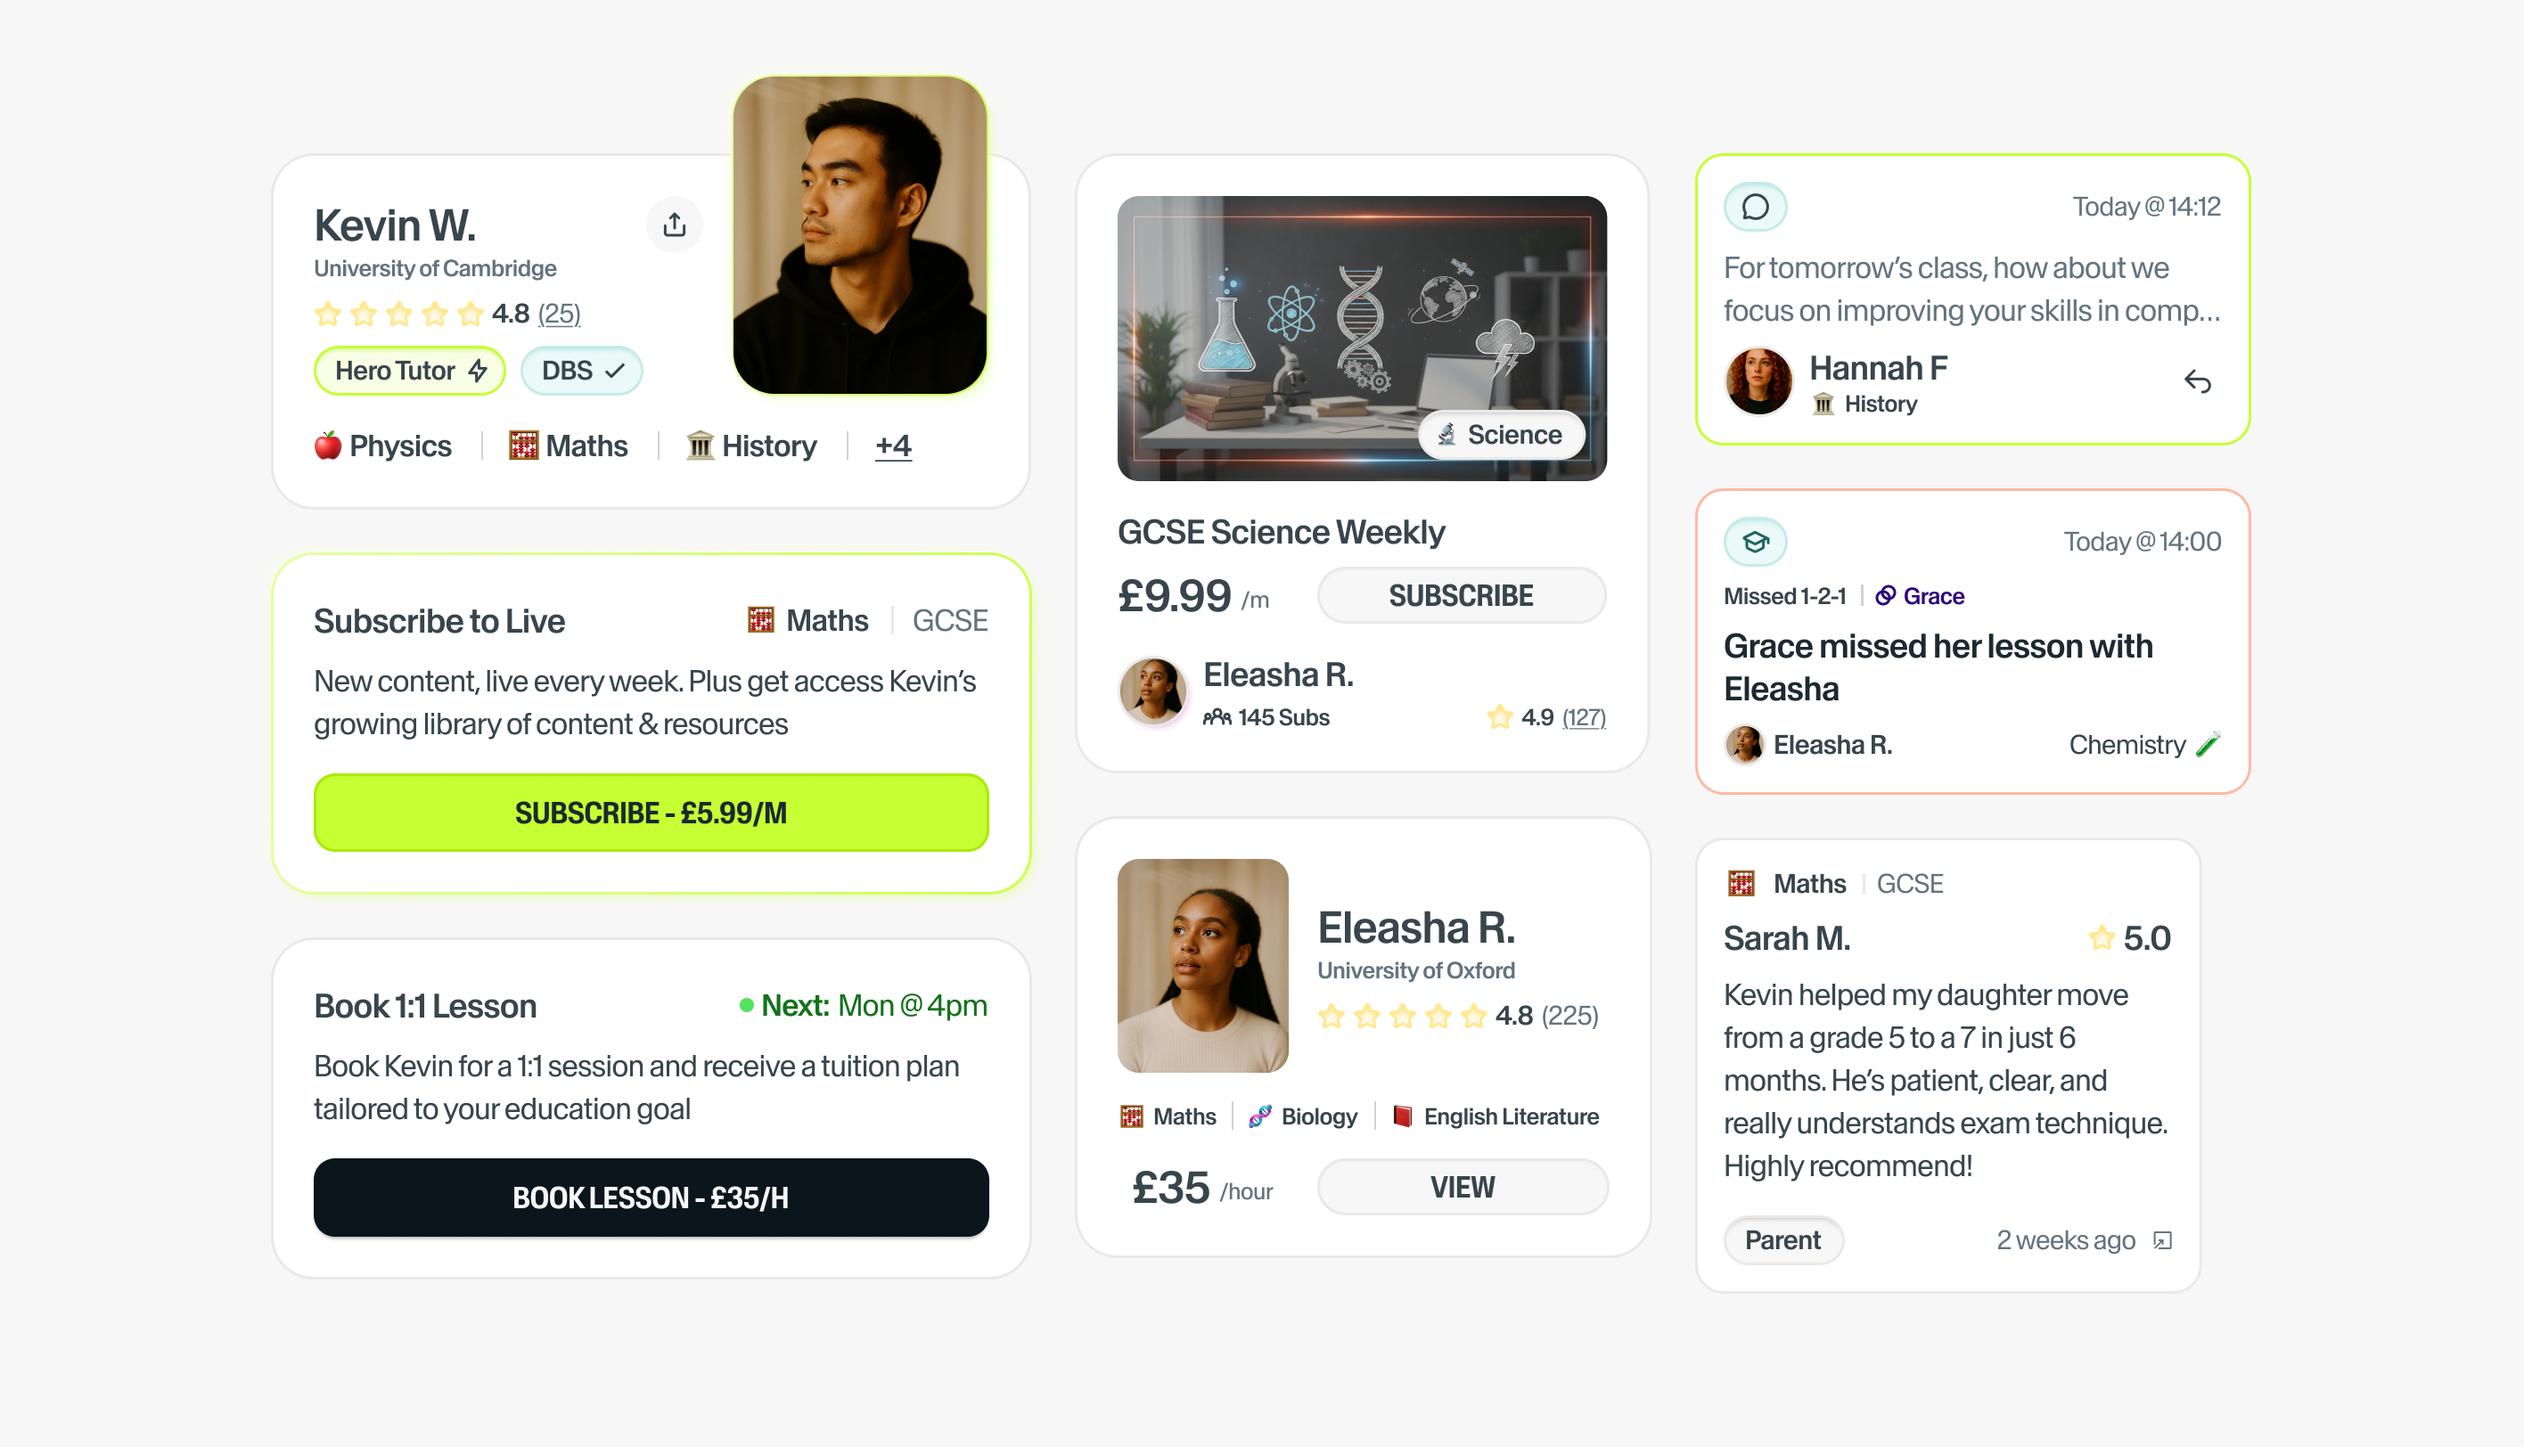
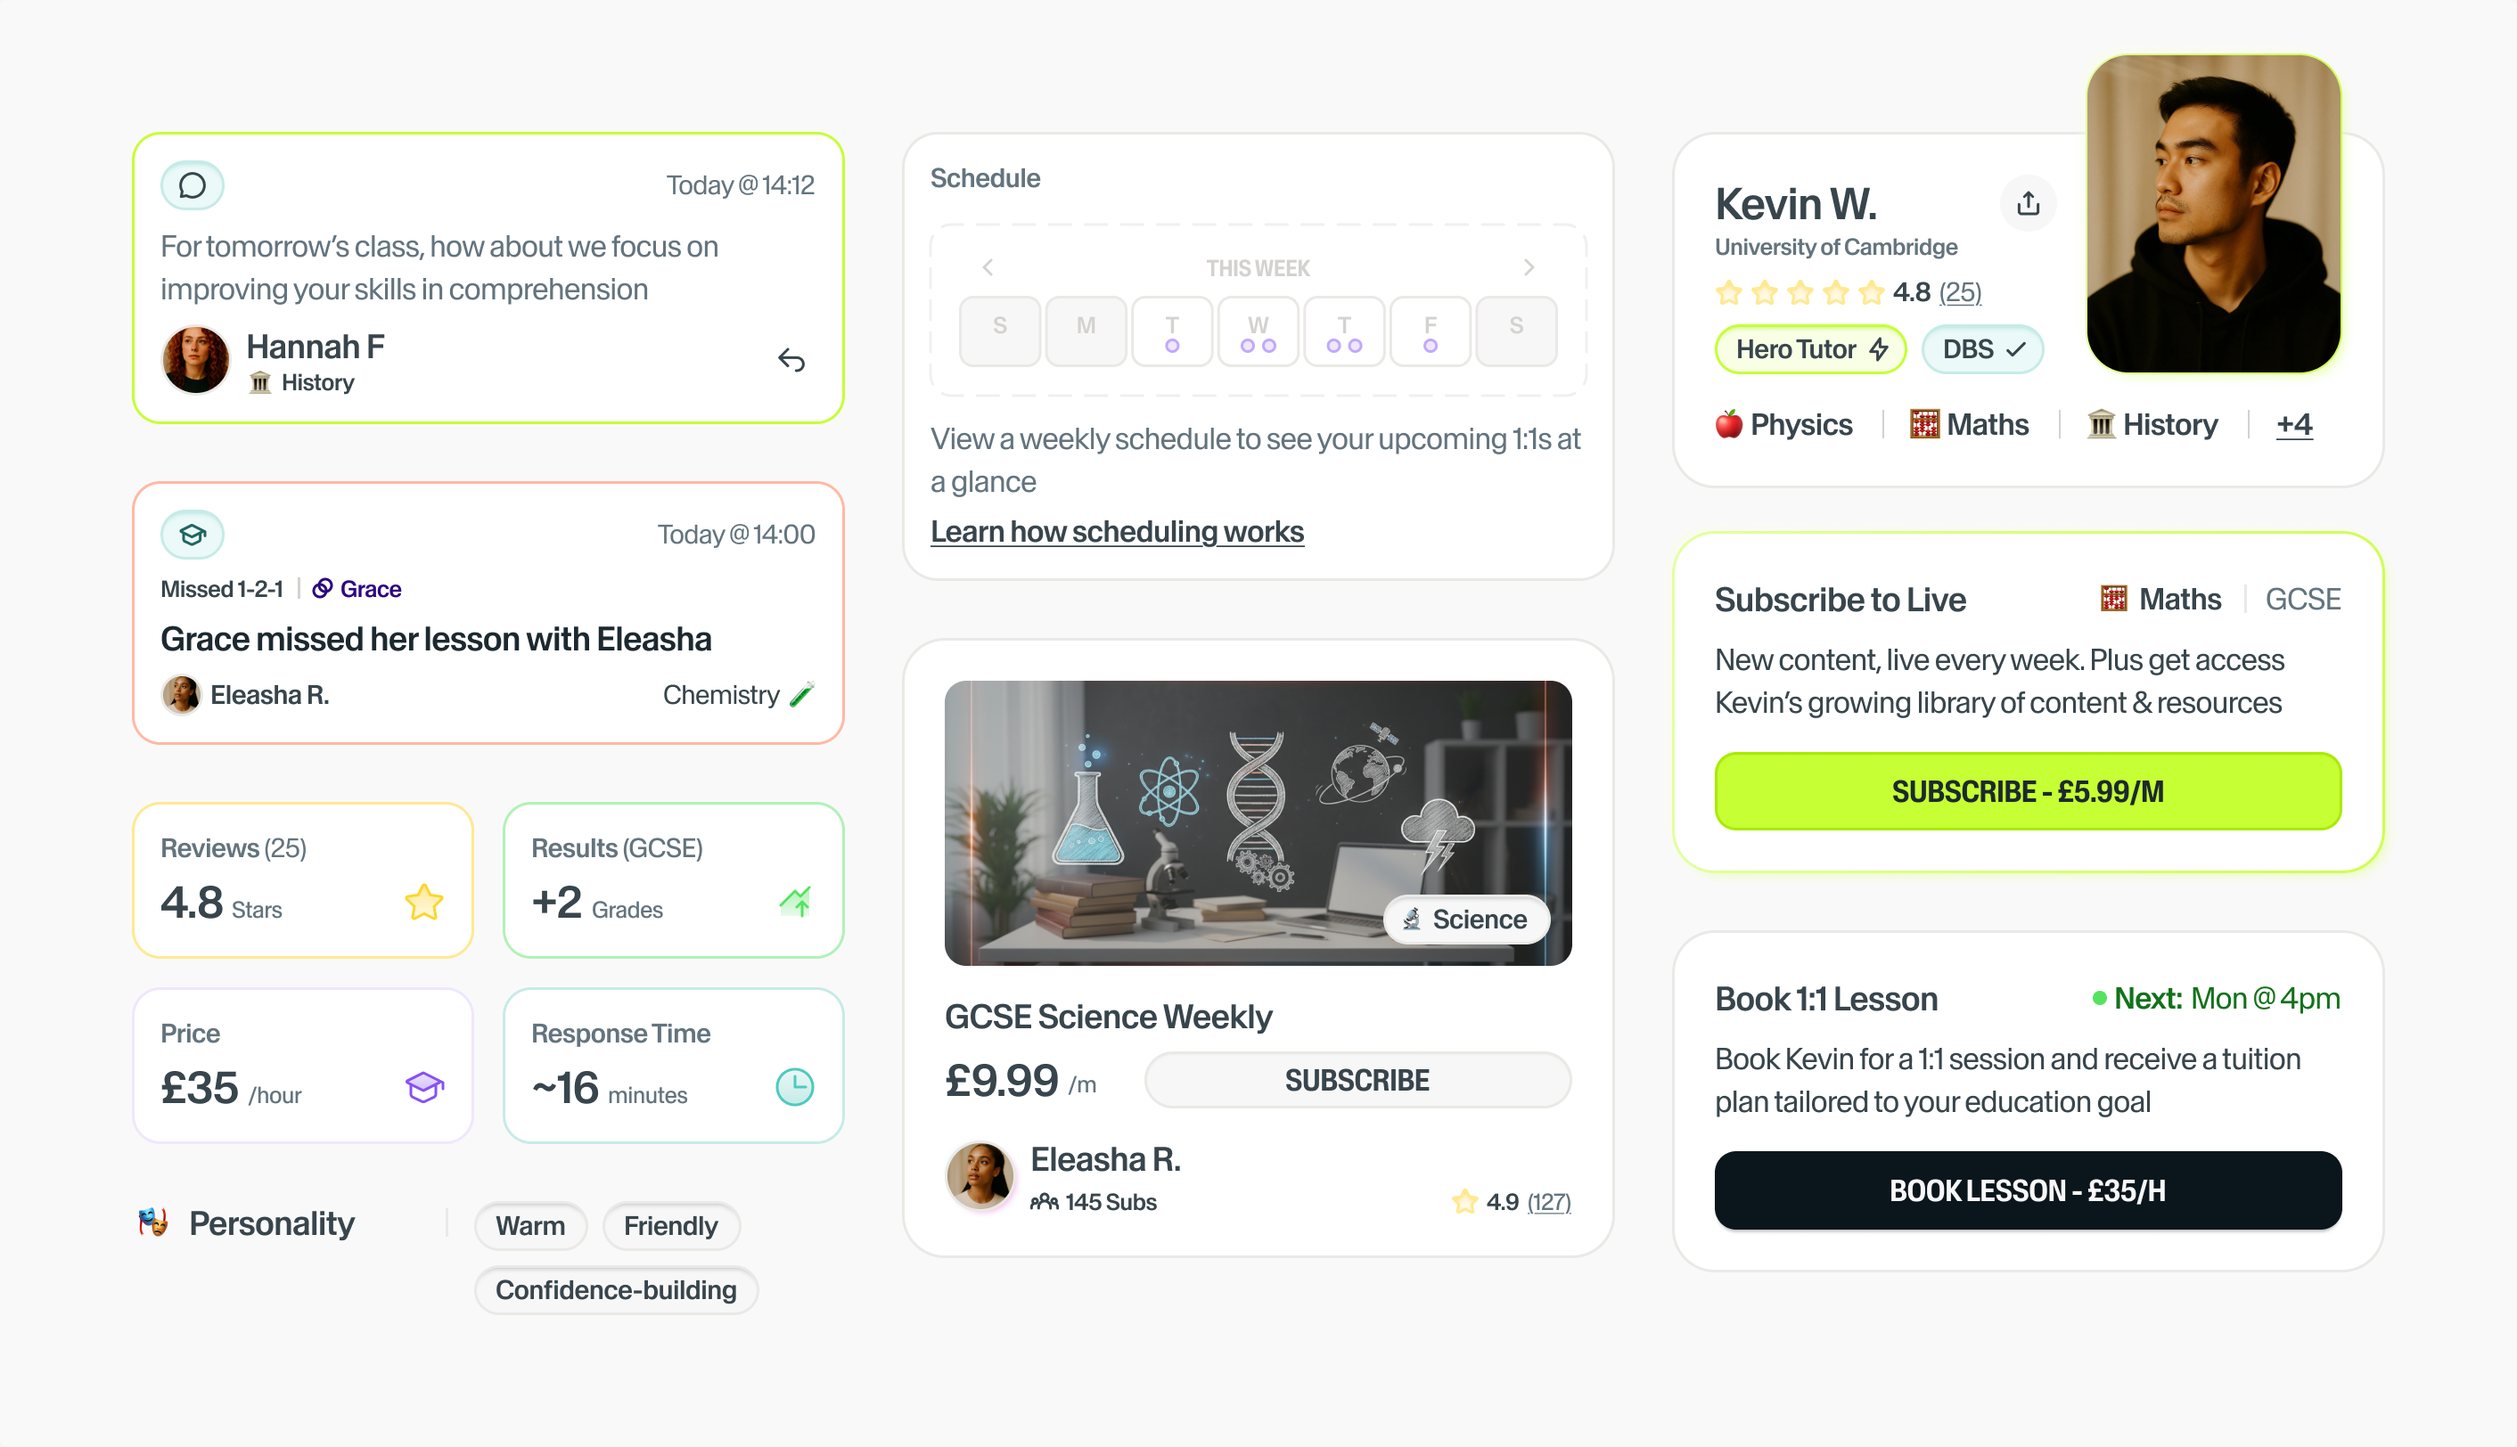
Studia: Sean's compositions, captions, AI section
Swap in Sean's own Figma compositions for the Studia case study (opener,
before, three customers, two routes, lesson, onboarding components,
profile wireframes and final design, tutor types, user tests, AI
replies and poll suggestion, atoms, logo, product components), all
exported at 2x. Add a caption option to Crop (figure + figcaption,
Label 19/24, 16 below, 48 in), a Teaching Assistant section, and move
the profile versions under Less Dashboard. The playbook gains the raster
density check and the caption component.

Changed region(s): [[0.0623, 0.0308, 0.9348, 0.8929], [0.8725, 0.3387, 0.9037, 0.3695]]

diff --git a/src/styles/tokens.css b/src/styles/tokens.css
@@ -115,12 +115,9 @@
   --minimum-violet: oklch(63.07% 0.2143 289.82);        /* #8c68ff */
   --minimum-violet-deep: oklch(52.02% 0.2767 281.64);   /* #5f2eff */
 
-  /* Studia, the case study's panels (Design System, an sRGB file; the
-     cream is the Assured Academic route's background) */
+  /* Studia Design System, Neon 050 (an sRGB file): the case study's
+     screen panels */
   --studia-neon-050: oklch(98.79% 0.0347 119.29);   /* #f8ffe5 */
-  --studia-neutral-050: oklch(97.69% 0.0011 0);     /* #f8f7f7 */
-  --studia-neutral-900: oklch(19.27% 0.0201 233.09);/* #0b161c */
-  --studia-assured-cream: oklch(93.78% 0.0187 100.13); /* #edebdd */
 
   /* Colour: roles */
   --bg-page: var(--neutral-050);
